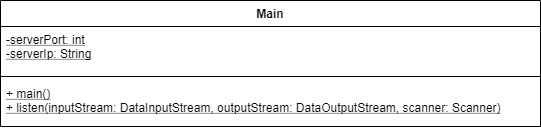
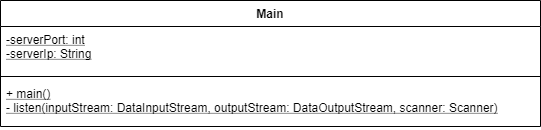
Anpassen aller Zugriffsmodifikatoren für intelligente Datenkapselung

Changed region(s): [[0.0, 0.7692, 0.9464, 0.8923]]

diff --git a/Server/ClientInterface.java b/Server/ClientInterface.java
@@ -32,7 +32,7 @@ public class ClientInterface extends Thread
      * 
      * @param client : Socket 
      */
-    public ClientInterface(Socket client) {
+    ClientInterface(Socket client) {
         this.client = client;
         try {
             this.input = new DataInputStream(client.getInputStream());
@@ -75,7 +75,7 @@ public class ClientInterface extends Thread
      * 
      * @throws IOException bei Fehlern mit der Verbindung.
      */
-    public void displayMainMenu() throws IOException {
+    private void displayMainMenu() throws IOException {
         while (true){
             output.writeUTF(getMainMenu());
             String userInput = getUserInput();
@@ -92,7 +92,7 @@ public class ClientInterface extends Thread
      * 
      * @throws IOException bei Fehlern mit der Verbindung.
      */
-    public void processMainMenuInput(String userInput) throws IOException {
+    private void processMainMenuInput(String userInput) throws IOException {
         if (userInput.equals("registrieren")){
             displaySignUpMenu();
         } else if(userInput.equals("anmelden")) {
@@ -109,7 +109,7 @@ public class ClientInterface extends Thread
      * 
      * @throws IOException bei Fehlern mit der Verbindung.
      */
-    public void displaySignInMenu() throws IOException {
+    private void displaySignInMenu() throws IOException {
         output.writeUTF("Hier können Sie sich anmelden!");
         
         String eMail = receiveEMailInput();
@@ -137,7 +137,7 @@ public class ClientInterface extends Thread
      * 
      * @throws IOException bei Fehlern der Kommunikation mit dem Client.
      */
-    public void displayUserMenu(User user) throws IOException {
+    private void displayUserMenu(User user) throws IOException {
         String userInput;
         do {
             output.writeUTF(getUserMenu(user.getName()));
@@ -158,7 +158,7 @@ public class ClientInterface extends Thread
      * 
      * @throws IOException bei Fehlern der Kommunikation mit dem Client.
      */
-    public void processUserMenuInput(String userInput, User user) throws IOException {
+    private void processUserMenuInput(String userInput, User user) throws IOException {
         switch (userInput) {
             case "hinzufügen": 
                 displayAddRealEstateMenu(user);
@@ -184,7 +184,7 @@ public class ClientInterface extends Thread
      * 
      * @throws IOException bei Fehlern mit der Verbindung mit dem Client.
      */
-    public void displayAllRealEstates() throws IOException {
+    private void displayAllRealEstates() throws IOException {
         String[] realEstatesInfo = DataCenter.getRealEstatesInformation();
         if (realEstatesInfo.length > 0) {
             for(String infoString: realEstatesInfo) {
@@ -203,7 +203,7 @@ public class ClientInterface extends Thread
      * 
      * @throws IOException bei Fehlern mit der Verbindung mit dem Client.
      */
-    public void displayRemoveRealEstateMenu(User owner) throws IOException {
+    private void displayRemoveRealEstateMenu(User owner) throws IOException {
         String[] realEstatesInformation = owner.getRealEstatesInformation();
         
         if (realEstatesInformation.length > 0) {
@@ -232,7 +232,7 @@ public class ClientInterface extends Thread
      * 
      * @throws IOException bei Fehlern mit der Verbindung mit dem Client.
      */
-    public int receiveRealEstateNumInput(int maxRealEstateNum) throws IOException{
+    private int receiveRealEstateNumInput(int maxRealEstateNum) throws IOException{
         while (true) {
             output.writeUTF("Was ist die Nummer der Immobilie, die Sie löschen möchten?");
             try {
@@ -256,7 +256,7 @@ public class ClientInterface extends Thread
      * 
      * @throws IOException bei Fehlern mit der Verbindung mit dem Client.
      */
-    public void displayUsersRealEstates(User owner) throws IOException{
+    private void displayUsersRealEstates(User owner) throws IOException{
         String[] realEstatesInformation = owner.getRealEstatesInformation();
         
         if (realEstatesInformation.length > 0) {
@@ -277,7 +277,7 @@ public class ClientInterface extends Thread
      * 
      * @throws IOException bei Fehlern mit der Verbindung mit dem Client.
      */
-    public void displayAddRealEstateMenu(User user) throws IOException {
+    private void displayAddRealEstateMenu(User user) throws IOException {
         output.writeUTF("Hier können Sie eine neue Immobilien hinzufügen!");
         
         double price = receivePriceInput();
@@ -300,7 +300,7 @@ public class ClientInterface extends Thread
      * 
      * @throws IOException bei Fehlern mit der Verbindung mit dem Client.
      */
-    public int receiveFloorAreaInput() throws IOException {
+    private int receiveFloorAreaInput() throws IOException {
         while (true) {
             output.writeUTF("Welche Fläche hat die Immobilie?");
             try {
@@ -323,7 +323,7 @@ public class ClientInterface extends Thread
      * 
      * @throws IOException bei Fehlern mit der Verbindung mit dem Client.
      */
-    public int receiveNumOfRoomsInput() throws IOException {
+    private int receiveNumOfRoomsInput() throws IOException {
         while (true) {
             output.writeUTF("Wie viele Räume hat die Immobilie?");
             try {
@@ -347,7 +347,7 @@ public class ClientInterface extends Thread
      * 
      * @throws IOException bei Fehlern mit der Verbindung mit dem Client.
      */
-    public String receiveAddressInput() throws IOException {
+    private String receiveAddressInput() throws IOException {
         while (true) {
             output.writeUTF("Was ist die Adresse der Immobilie?");
             String address = getUserInput();
@@ -366,7 +366,7 @@ public class ClientInterface extends Thread
      * 
      * @throws IOException bei Fehlern mit der Verbindung mit dem Client.
      */
-    public double receivePriceInput() throws IOException{
+    private double receivePriceInput() throws IOException{
         while (true) {
             output.writeUTF("Was ist der Preis Ihrer Immobilie?");
             try {
@@ -391,7 +391,7 @@ public class ClientInterface extends Thread
      * 
      * @return userMenu String - Das Benutzermenü.
      */
-    public String getUserMenu(String name) {
+    private String getUserMenu(String name) {
         String userMenu = "\nHerzlich Willkommen " + name.toUpperCase() + "!" 
             + "\nWas wollen Sie tun?"
             + "\nhinzufügen: Immobilie hinzufügen"
@@ -410,7 +410,7 @@ public class ClientInterface extends Thread
      * 
      * @throws IOException bei Fehlern mit der Verbindung.
      */
-    public void displaySignUpMenu() throws IOException {
+    private void displaySignUpMenu() throws IOException {
         
         output.writeUTF("Hier können sie einen neuen Nutzer registrieren!");
         
@@ -430,7 +430,7 @@ public class ClientInterface extends Thread
      * 
      * @return password verschlüsseltes Passwort des Benutzers.
      */
-    public String receivePasswordInput() throws IOException {
+    private String receivePasswordInput() throws IOException {
         while (true) {
             output.writeUTF("Bitte geben Sie Ihr Passwort ein:");
             String password = getUserInput();
@@ -462,7 +462,7 @@ public class ClientInterface extends Thread
      * 
      * @return eMail validierte E-Mail des Benutzers.
      */
-    public String receiveEMailInput() throws IOException {
+    private String receiveEMailInput() throws IOException {
         while (true) {
             output.writeUTF("Bitte geben Sie Ihre E-Mail ein:");
             String eMail = getUserInput();
@@ -482,7 +482,7 @@ public class ClientInterface extends Thread
      * 
      * @return name validierter Name des Benutzers.
      */
-    public String receiveNameInput() throws IOException {
+    private String receiveNameInput() throws IOException {
         
         while (true) {
             output.writeUTF("Bitte geben Sie Ihren Namen ein:");
@@ -503,7 +503,7 @@ public class ClientInterface extends Thread
      * 
      * @return mainMenu : String; das Hauptmenü als String.
      */
-    public String getMainMenu() {
+    private String getMainMenu() {
         String mainMenu =
             "\nDas ist das Hauptmenü des Immobilienportals!" +
             "\nWas wollen Sie tun?" + 
@@ -522,7 +522,7 @@ public class ClientInterface extends Thread
      * 
      * @throws IOException bei Fehlern mit der Verbindung.
      */
-    public String getUserInput() throws IOException {
+    private String getUserInput() throws IOException {
         output.writeUTF("Benutzereingabe");
         String userInput = input.readUTF();
         return userInput;

diff --git a/Server/User.java b/Server/User.java
@@ -29,7 +29,7 @@ public class User
      * @param eMail String : E-Mail des Benutzers.
      * @param password String : Verschlüsseltes Passwort des Benutzers.
      */
-    public User(String name, String eMail, String password) {
+    User(String name, String eMail, String password) {
         this.name = name;
         this.eMail = eMail;
         this.password = password;
@@ -41,7 +41,7 @@ public class User
      * 
      * @param indexOfRealEstate int - Index der Immobilie, die gelöscht werden soll.
      */
-    public void removeRealEstate(int indexOfRealEstate) {
+    void removeRealEstate(int indexOfRealEstate) {
         RealEstate toRemove = ownedRealEstates.get(indexOfRealEstate);
         ownedRealEstates.remove(toRemove);
         DataCenter.removeRealEstate(toRemove);
@@ -52,7 +52,7 @@ public class User
      * 
      * @return realEstatesInformation String[] enthält Informationen zu allen Immobilien.
      */
-    public String[] getRealEstatesInformation() {
+    String[] getRealEstatesInformation() {
         String[] realEstatesInformation = new String[ownedRealEstates.size()];
         for (int i = 0; i < ownedRealEstates.size(); i++) {
             realEstatesInformation[i] = ownedRealEstates.get(i).getInfo();
@@ -66,7 +66,7 @@ public class User
      * 
      * @param newRealEstate RealEstate - die Immobilie, die gespeichert werden soll.
      */
-    public void addRealEstate(RealEstate newRealEstate) {
+    void addRealEstate(RealEstate newRealEstate) {
         ownedRealEstates.add(newRealEstate);
     }
     
@@ -80,7 +80,7 @@ public class User
      * 
      * @return isMatching boolean - true falls die Daten übereinstimmen, ansonsten false.
      */
-    public boolean matchesSignInData(String eMail, String password) {
+    boolean matchesSignInData(String eMail, String password) {
         boolean isMatching = this.eMail.equals(eMail) && this.password.equals(password);
         return isMatching;
     }
@@ -90,7 +90,7 @@ public class User
      * 
      * @return name String - Name des Benutzers.
      */
-    public String getName() {
+    String getName() {
         return name;
     }
     
@@ -99,7 +99,7 @@ public class User
      * 
      * @return eMail String - E-Mail des Benutzers.
      */
-    public String getEMail() {
+    String getEMail() {
         return eMail;
     }
 }

diff --git a/Server/DataCenter.java b/Server/DataCenter.java
@@ -21,7 +21,7 @@ public class DataCenter
      * 
      * @return realEstatesInfo String[] - Array aus Informationsstrings der Immobilien.
      */
-    public static String[] getRealEstatesInformation() {
+    static String[] getRealEstatesInformation() {
         String[] realEstatesInfo = new String[realEstates.size()];
         for (int i = 0; i < realEstates.size(); i++) {
             realEstatesInfo[i] = realEstates.get(i).getInfo();
@@ -40,7 +40,7 @@ public class DataCenter
      * @return user User - falls die Anmeldedaten mit einem Nutzer übereinstimmen;
      * ansonsten null.
      */
-    public static User authenticateUser(String eMail, String password) {
+    static User authenticateUser(String eMail, String password) {
         for (User user: users) {
             if (user.matchesSignInData(eMail, password)) {
                 return user;
@@ -55,7 +55,7 @@ public class DataCenter
      * 
      * @param toRemove RealEstate - Immobilie, die gelöscht werden soll.
      */
-    public static void removeRealEstate(RealEstate toRemove) {
+    static void removeRealEstate(RealEstate toRemove) {
         realEstates.remove(toRemove);
     }
     
@@ -64,7 +64,7 @@ public class DataCenter
      * 
      * @param newRealEstate RealEstate - die Immobilie, die gespeichert werden soll.
      */
-    public static void addRealEstate(RealEstate newRealEstate) {
+    static void addRealEstate(RealEstate newRealEstate) {
         realEstates.add(newRealEstate);
     }
     
@@ -73,7 +73,7 @@ public class DataCenter
      * 
      * @param newUser User: der neu erstellte Benutzer.
      */
-    public static void addNewUser(User newUser) {
+    static void addNewUser(User newUser) {
         users.add(newUser);
     }
 }

diff --git a/Server/Main.java b/Server/Main.java
@@ -31,7 +31,7 @@ public class Main
      * 
      * @throws IOException bei Problemen mit dem Server.
      */
-    public static void runServer() throws IOException{
+    private static void runServer() throws IOException{
         ServerSocket server = new ServerSocket(port);
         System.out.println("Server online");
         
@@ -45,7 +45,7 @@ public class Main
      * @param server : ServerSocket.
      * @throws IOException bei Fehlern des Verbindungsaufbaus mit Clients.
      */
-    public static void connectClients(ServerSocket server) throws IOException {
+    private static void connectClients(ServerSocket server) throws IOException {
         while (true) {
             System.out.println("Warten auf Client auf Port " + port );
             Socket client = server.accept();

diff --git a/Server/RealEstate.java b/Server/RealEstate.java
@@ -27,7 +27,7 @@ public class RealEstate
      * @param floorArea int - Fläche der Immobilie.
      * @param owner User - Besitzer der Immobilie.
      */
-    public RealEstate(double price, String address, int numOfRooms, int floorArea,
+    RealEstate(double price, String address, int numOfRooms, int floorArea,
     User owner) {
         this.price = price;
         this.address = address;
@@ -41,7 +41,7 @@ public class RealEstate
      * 
      * @return info String - Informationen zur Immobilie.
      */
-    public String getInfo() {
+    String getInfo() {
         String info = String.format("%s wird verkauft für $%,.2f!"
             + "\nDie Immobilie hat %d Räume und eine Fläche von %d qm."
             + "\nDie E-Mail des Besitzers ist: %s",

diff --git a/Client/Main.java b/Client/Main.java
@@ -74,7 +74,7 @@ public class Main
      * 
      * @throws IOException falls Fehler bei der Kommunikation mit dem Server auftreten.
      */
-    public static void listen(DataInputStream input, DataOutputStream output, Scanner scanner) throws IOException {
+    private static void listen(DataInputStream input, DataOutputStream output, Scanner scanner) throws IOException {
         while(true) { 
             String serverMessage = input.readUTF();
             if (serverMessage.equals("Benutzereingabe")){
